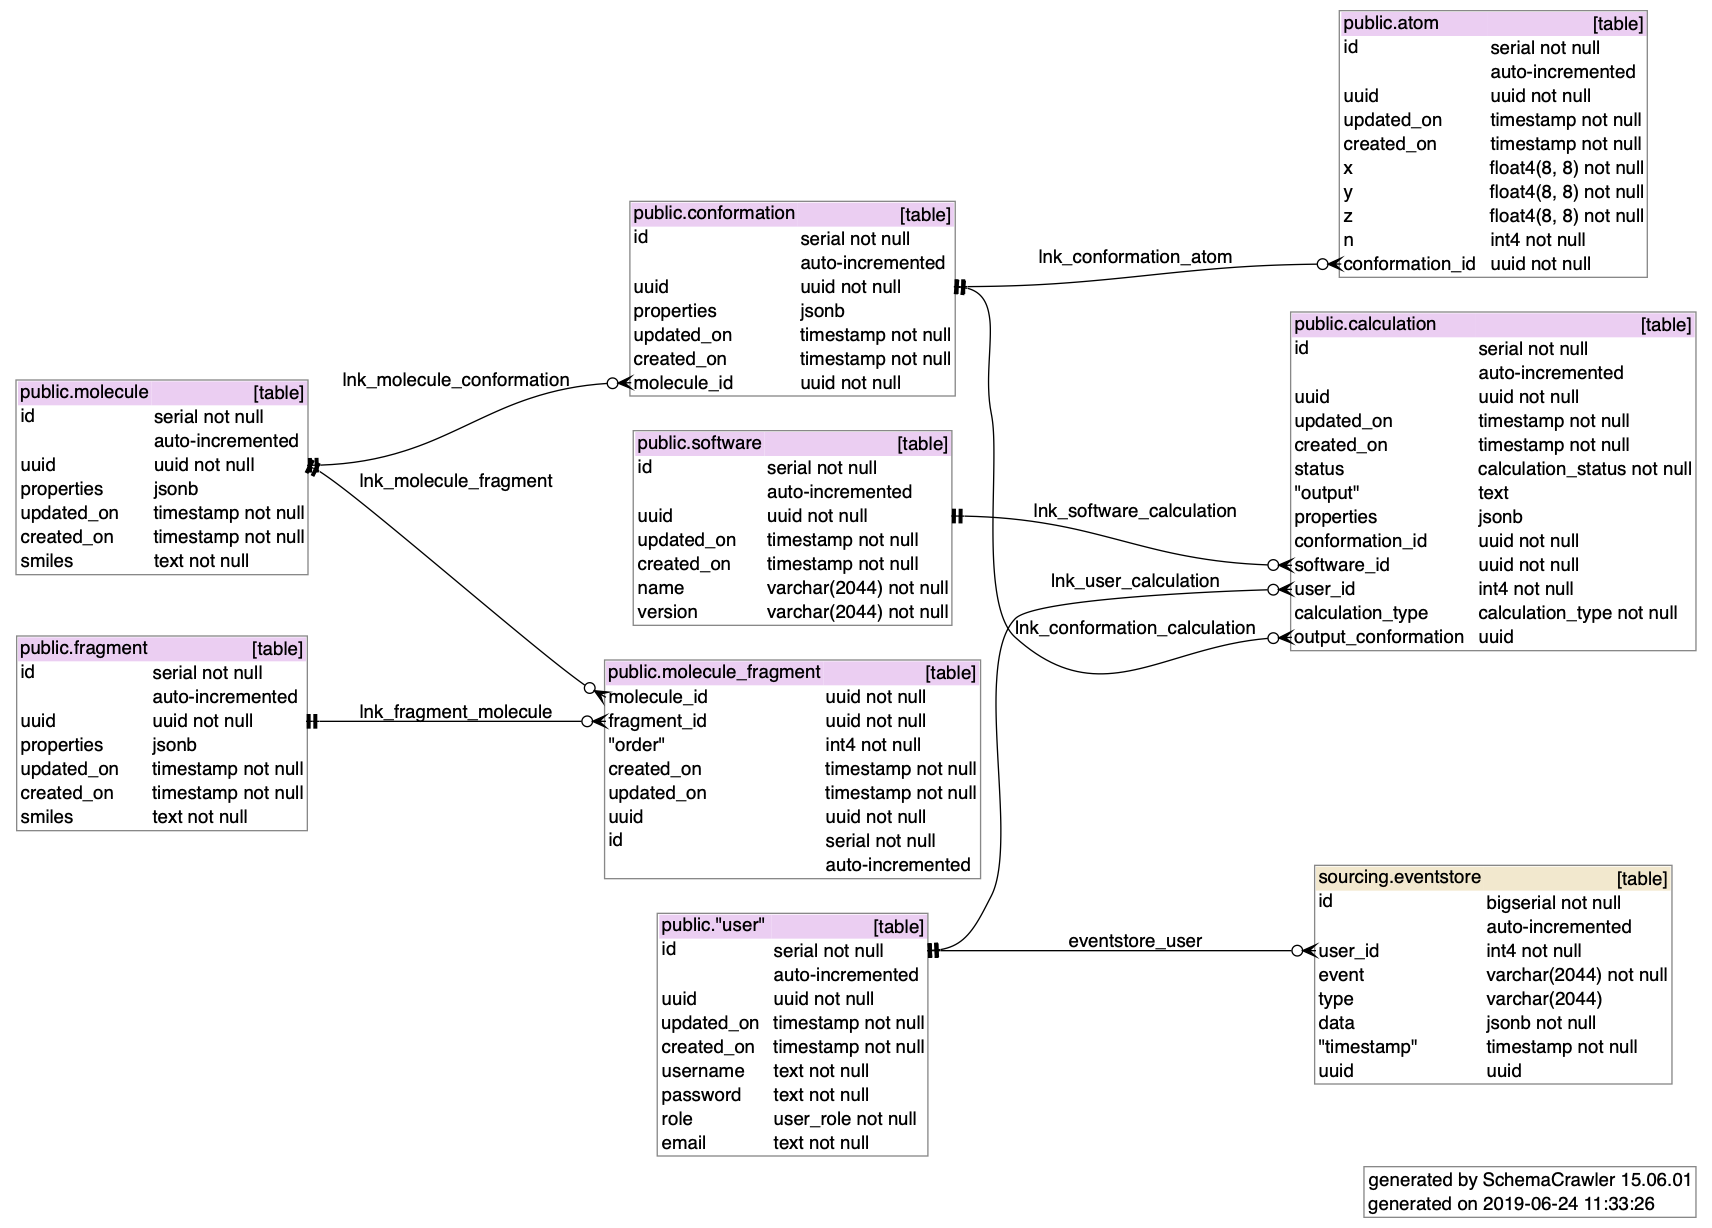
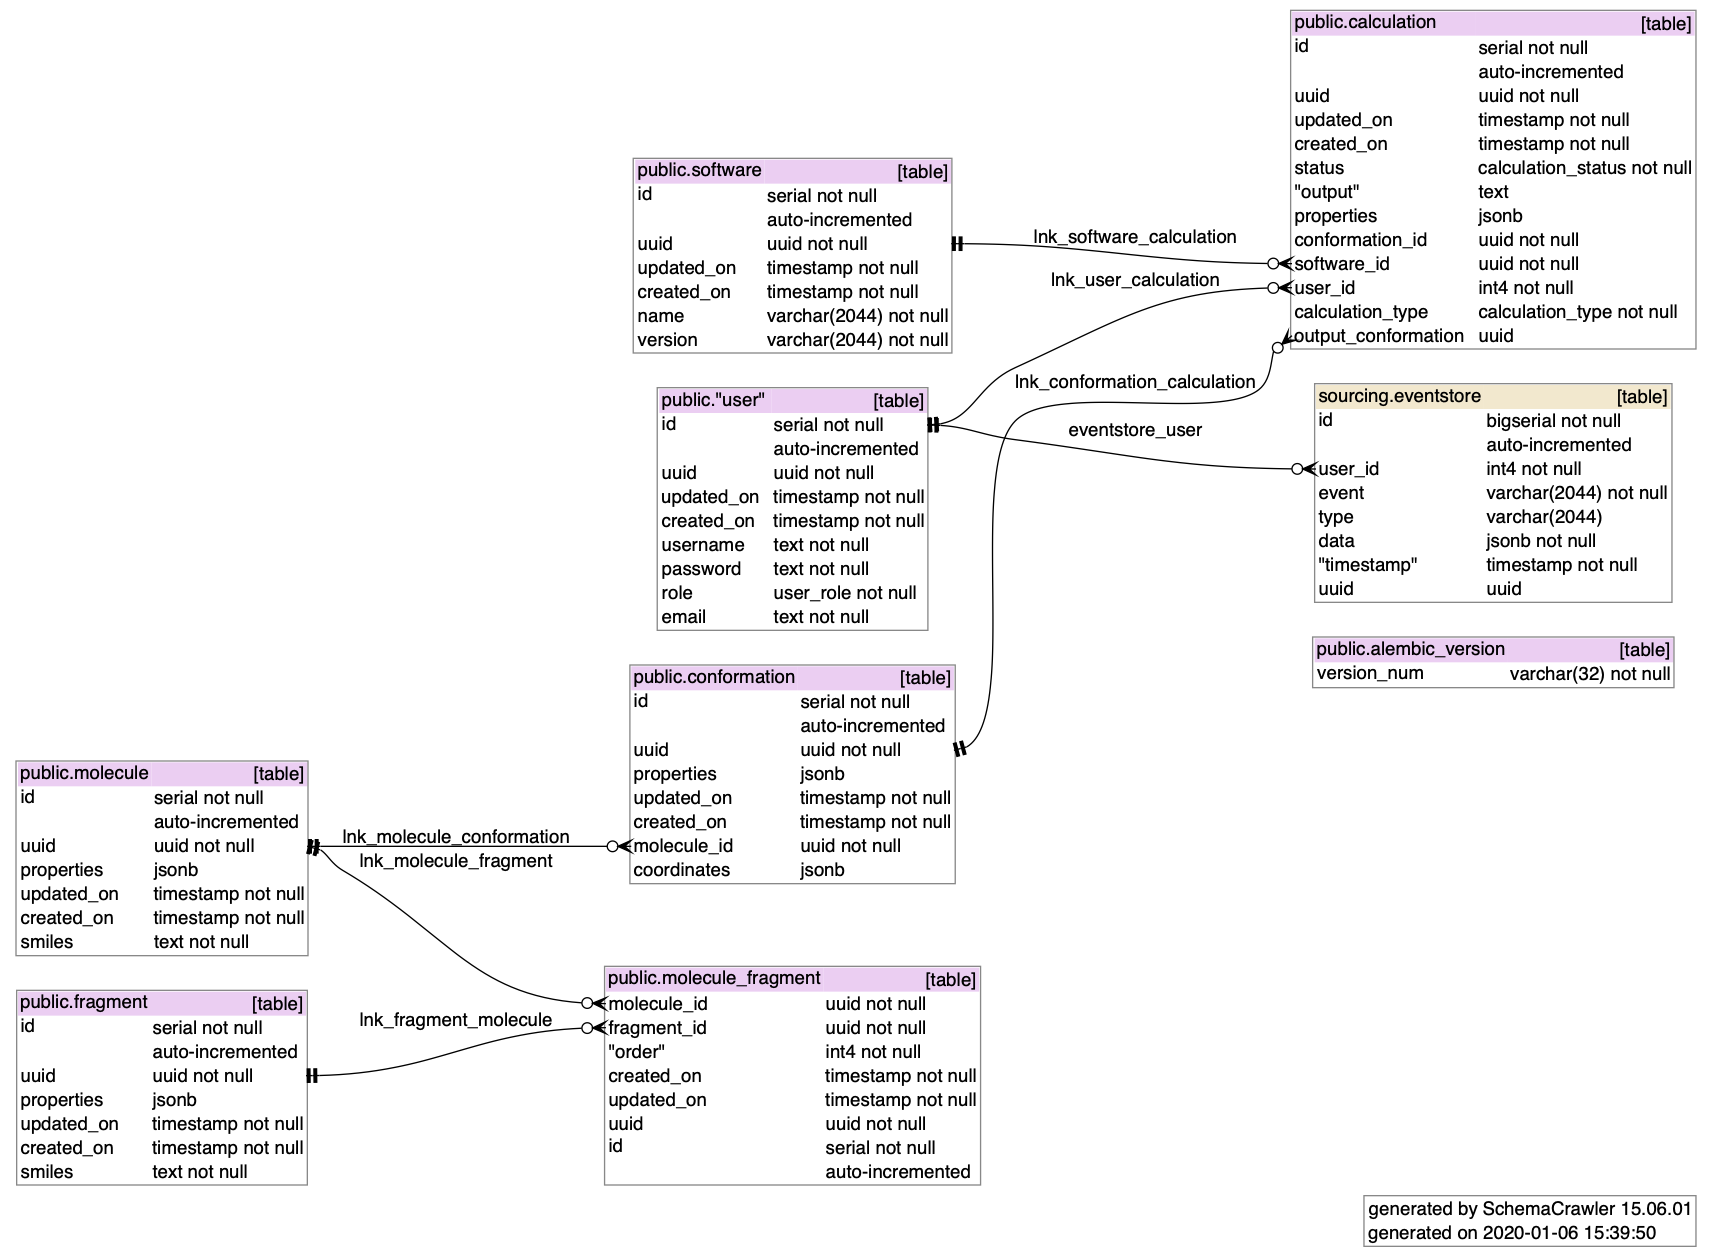
Adding alembic migration and conf for testing

diff --git a/migrations/env.py b/migrations/env.py
@@ -1,0 +1,139 @@
+import logging
+from logging.config import fileConfig
+import re
+
+from sqlalchemy import engine_from_config
+from sqlalchemy import pool
+
+from alembic import context
+
+USE_TWOPHASE = False
+
+# this is the Alembic Config object, which provides
+# access to the values within the .ini file in use.
+config = context.config
+
+# Interpret the config file for Python logging.
+# This line sets up loggers basically.
+fileConfig(config.config_file_name)
+logger = logging.getLogger("alembic.env")
+
+# gather section names referring to different
+# databases.  These are named "engine1", "engine2"
+# in the sample .ini file.
+db_names = config.get_main_option("databases")
+
+# add your model's MetaData objects here
+# for 'autogenerate' support.  These must be set
+# up to hold just those tables targeting a
+# particular database. table.tometadata() may be
+# helpful here in case a "copy" of
+# a MetaData is needed.
+# from myapp import mymodel
+# target_metadata = {
+#       'engine1':mymodel.metadata1,
+#       'engine2':mymodel.metadata2
+# }
+target_metadata = {}
+
+# other values from the config, defined by the needs of env.py,
+# can be acquired:
+# my_important_option = config.get_main_option("my_important_option")
+# ... etc.
+
+
+def run_migrations_offline():
+    """Run migrations in 'offline' mode.
+
+    This configures the context with just a URL
+    and not an Engine, though an Engine is acceptable
+    here as well.  By skipping the Engine creation
+    we don't even need a DBAPI to be available.
+
+    Calls to context.execute() here emit the given string to the
+    script output.
+
+    """
+    # for the --sql use case, run migrations for each URL into
+    # individual files.
+
+    engines = {}
+    for name in re.split(r",\s*", db_names):
+        engines[name] = rec = {}
+        rec["url"] = context.config.get_section_option(name, "sqlalchemy.url")
+
+    for name, rec in engines.items():
+        logger.info("Migrating database %s" % name)
+        file_ = "%s.sql" % name
+        logger.info("Writing output to %s" % file_)
+        with open(file_, "w") as buffer:
+            context.configure(
+                url=rec["url"],
+                output_buffer=buffer,
+                target_metadata=target_metadata.get(name),
+                literal_binds=True,
+                dialect_opts={"paramstyle": "named"},
+            )
+            with context.begin_transaction():
+                context.run_migrations(engine_name=name)
+
+
+def run_migrations_online():
+    """Run migrations in 'online' mode.
+
+    In this scenario we need to create an Engine
+    and associate a connection with the context.
+
+    """
+
+    # for the direct-to-DB use case, start a transaction on all
+    # engines, then run all migrations, then commit all transactions.
+
+    engines = {}
+    for name in re.split(r",\s*", db_names):
+        engines[name] = rec = {}
+        rec["engine"] = engine_from_config(
+            context.config.get_section(name),
+            prefix="sqlalchemy.",
+            poolclass=pool.NullPool,
+        )
+
+    for name, rec in engines.items():
+        engine = rec["engine"]
+        rec["connection"] = conn = engine.connect()
+
+        if USE_TWOPHASE:
+            rec["transaction"] = conn.begin_twophase()
+        else:
+            rec["transaction"] = conn.begin()
+
+    try:
+        for name, rec in engines.items():
+            logger.info("Migrating database %s" % name)
+            context.configure(
+                connection=rec["connection"],
+                upgrade_token="%s_upgrades" % name,
+                downgrade_token="%s_downgrades" % name,
+                target_metadata=target_metadata.get(name),
+            )
+            context.run_migrations(engine_name=name)
+
+        if USE_TWOPHASE:
+            for rec in engines.values():
+                rec["transaction"].prepare()
+
+        for rec in engines.values():
+            rec["transaction"].commit()
+    except:
+        for rec in engines.values():
+            rec["transaction"].rollback()
+        raise
+    finally:
+        for rec in engines.values():
+            rec["connection"].close()
+
+
+if context.is_offline_mode():
+    run_migrations_offline()
+else:
+    run_migrations_online()

diff --git a/migrations/versions/03838e8c68e4_removing_atom_table.py b/migrations/versions/03838e8c68e4_removing_atom_table.py
@@ -1,0 +1,73 @@
+"""Removing atom table
+
+Revision ID: 03838e8c68e4
+Revises: 
+Create Date: 2019-10-09 12:48:18.515107
+
+"""
+from alembic import op
+import sqlalchemy as sa
+
+
+# revision identifiers, used by Alembic.
+revision = '03838e8c68e4'
+down_revision = None
+branch_labels = None
+depends_on = None
+
+
+def upgrade(engine_name):
+    globals()["upgrade_%s" % engine_name]()
+    op.add_column('conformation', sa.Column('coordinates', sa.dialects.postgresql.JSONB))
+    op.drop_table('atom')
+
+def downgrade(engine_name):
+    globals()["downgrade_%s" % engine_name]()
+    op.drop_column('conformation', 'coordinates')
+    op.execute("""
+    CREATE TABLE public.atom (
+    id integer NOT NULL,
+    uuid uuid NOT NULL,
+    updated_on timestamp without time zone NOT NULL,
+    created_on timestamp without time zone NOT NULL,
+    x real NOT NULL,
+    y real NOT NULL,
+    z real NOT NULL,
+    n integer NOT NULL,
+    conformation_id uuid NOT NULL
+    );""")
+    op.execute("""
+    CREATE SEQUENCE public.atom_id_seq
+    AS integer
+    START WITH 1
+    INCREMENT BY 1
+    NO MINVALUE
+    NO MAXVALUE
+    CACHE 1;
+    """)
+    op.execute("""ALTER SEQUENCE public.atom_id_seq OWNED BY public.atom.id;""")
+
+
+def upgrade_madness():
+    pass
+
+
+def downgrade_madness():
+    pass
+
+
+def upgrade_playground():
+    pass
+
+
+def downgrade_playground():
+    pass
+
+
+def upgrade_abqc():
+    pass
+
+
+def downgrade_abqc():
+    pass
+
